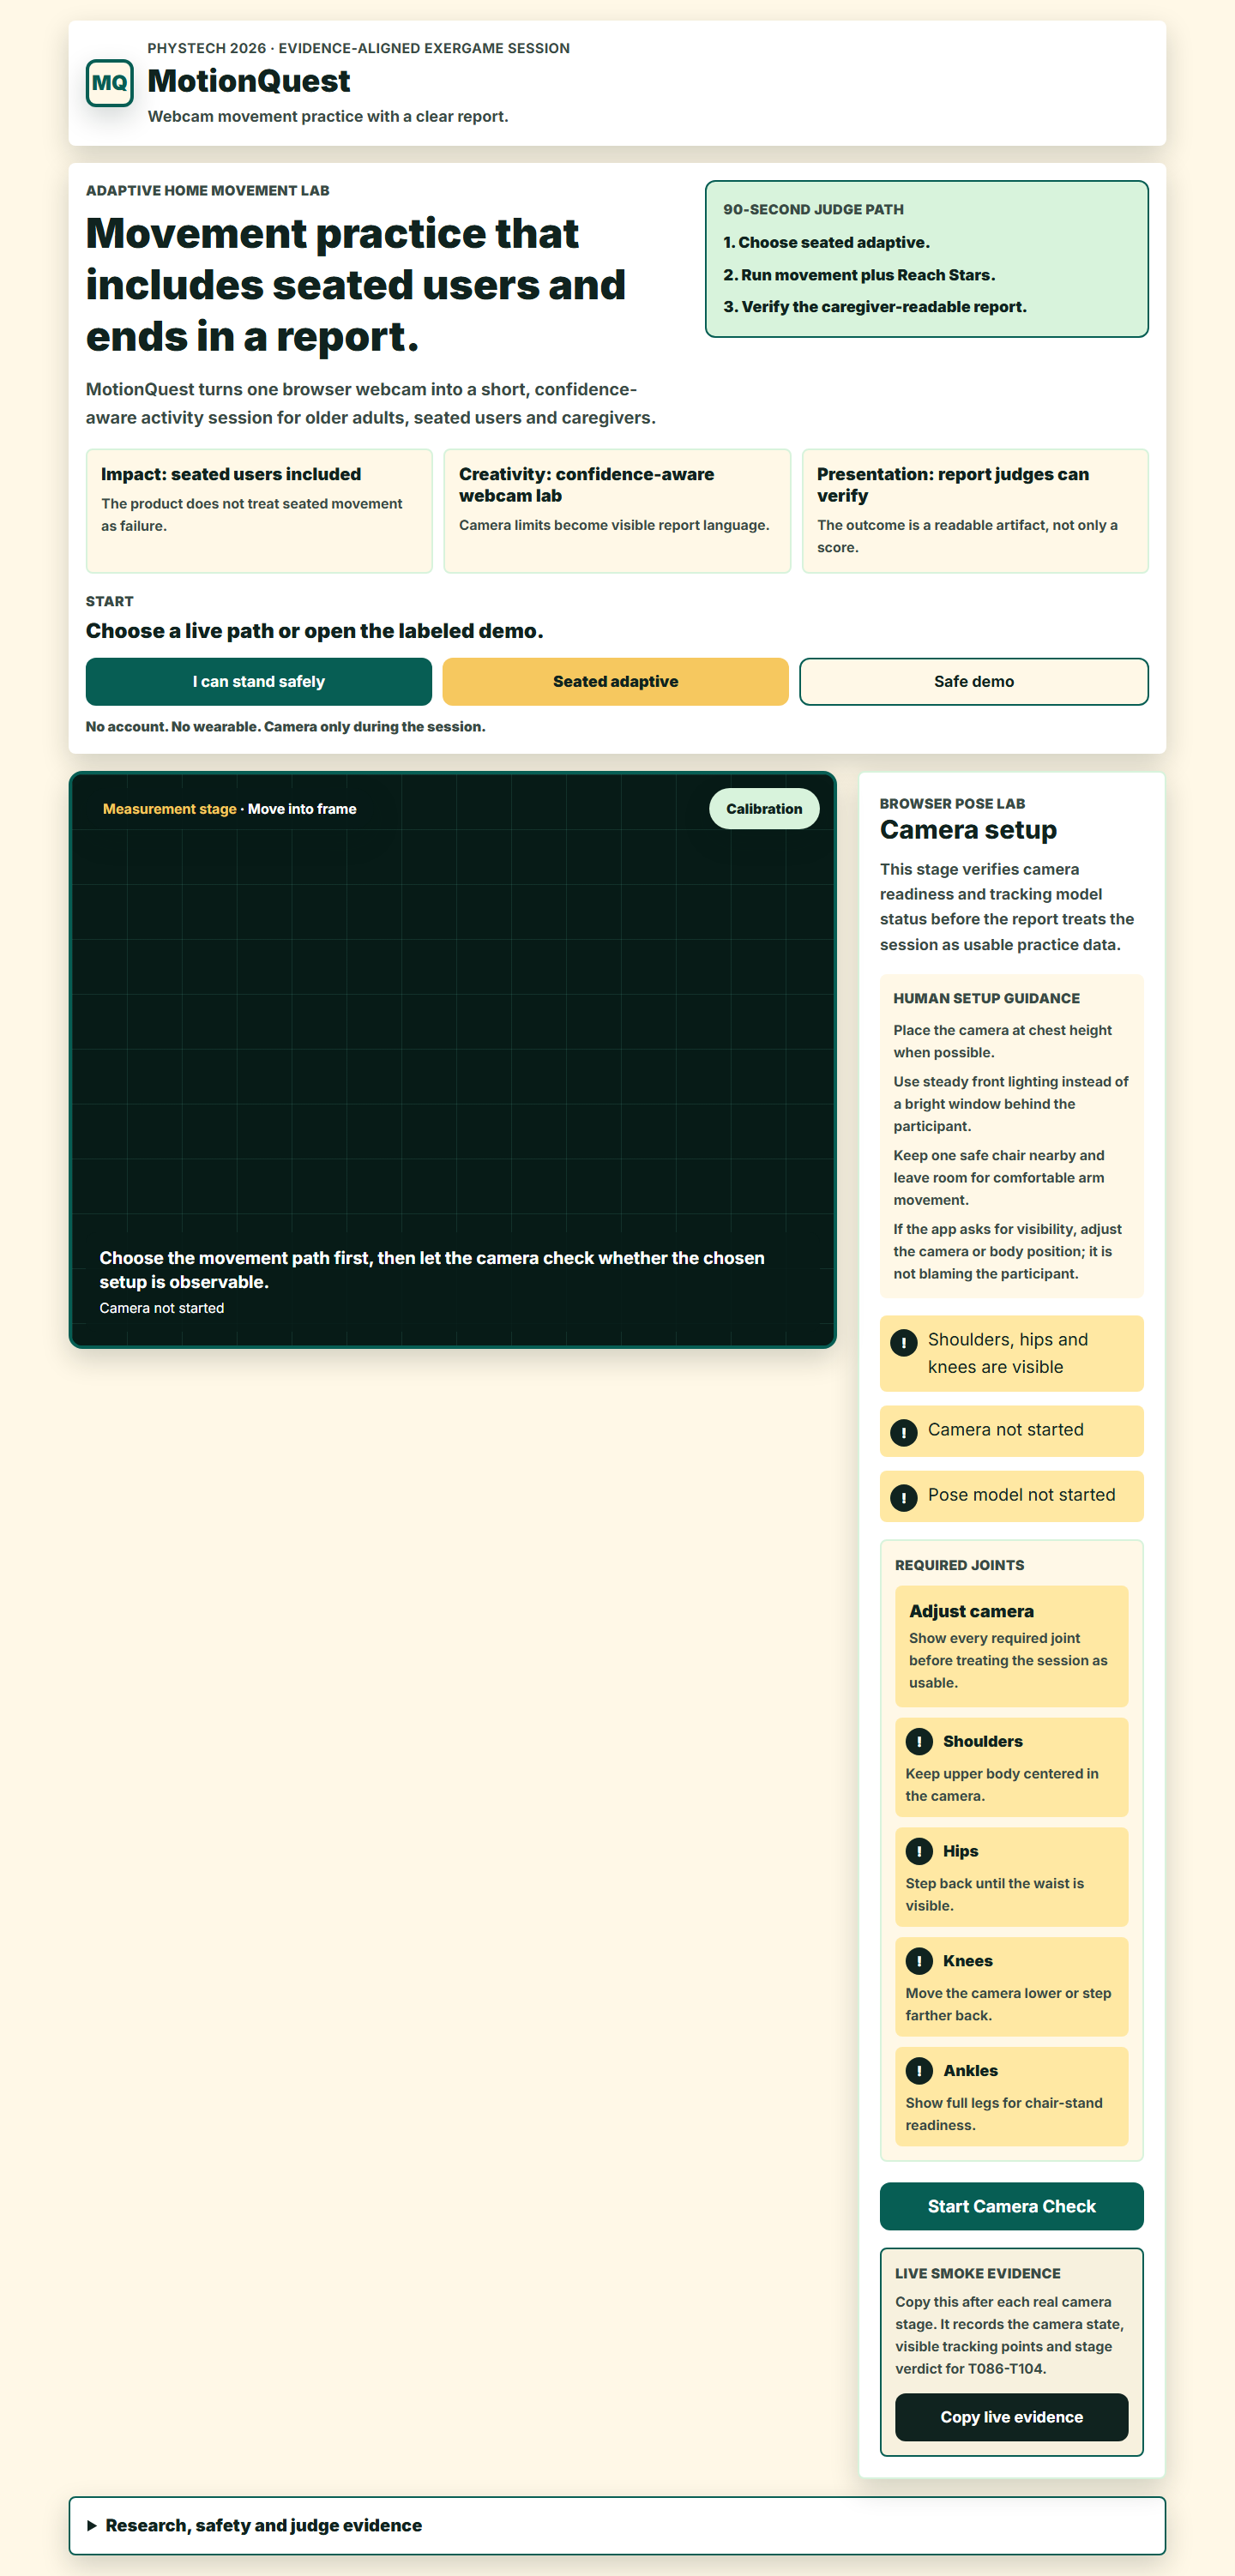
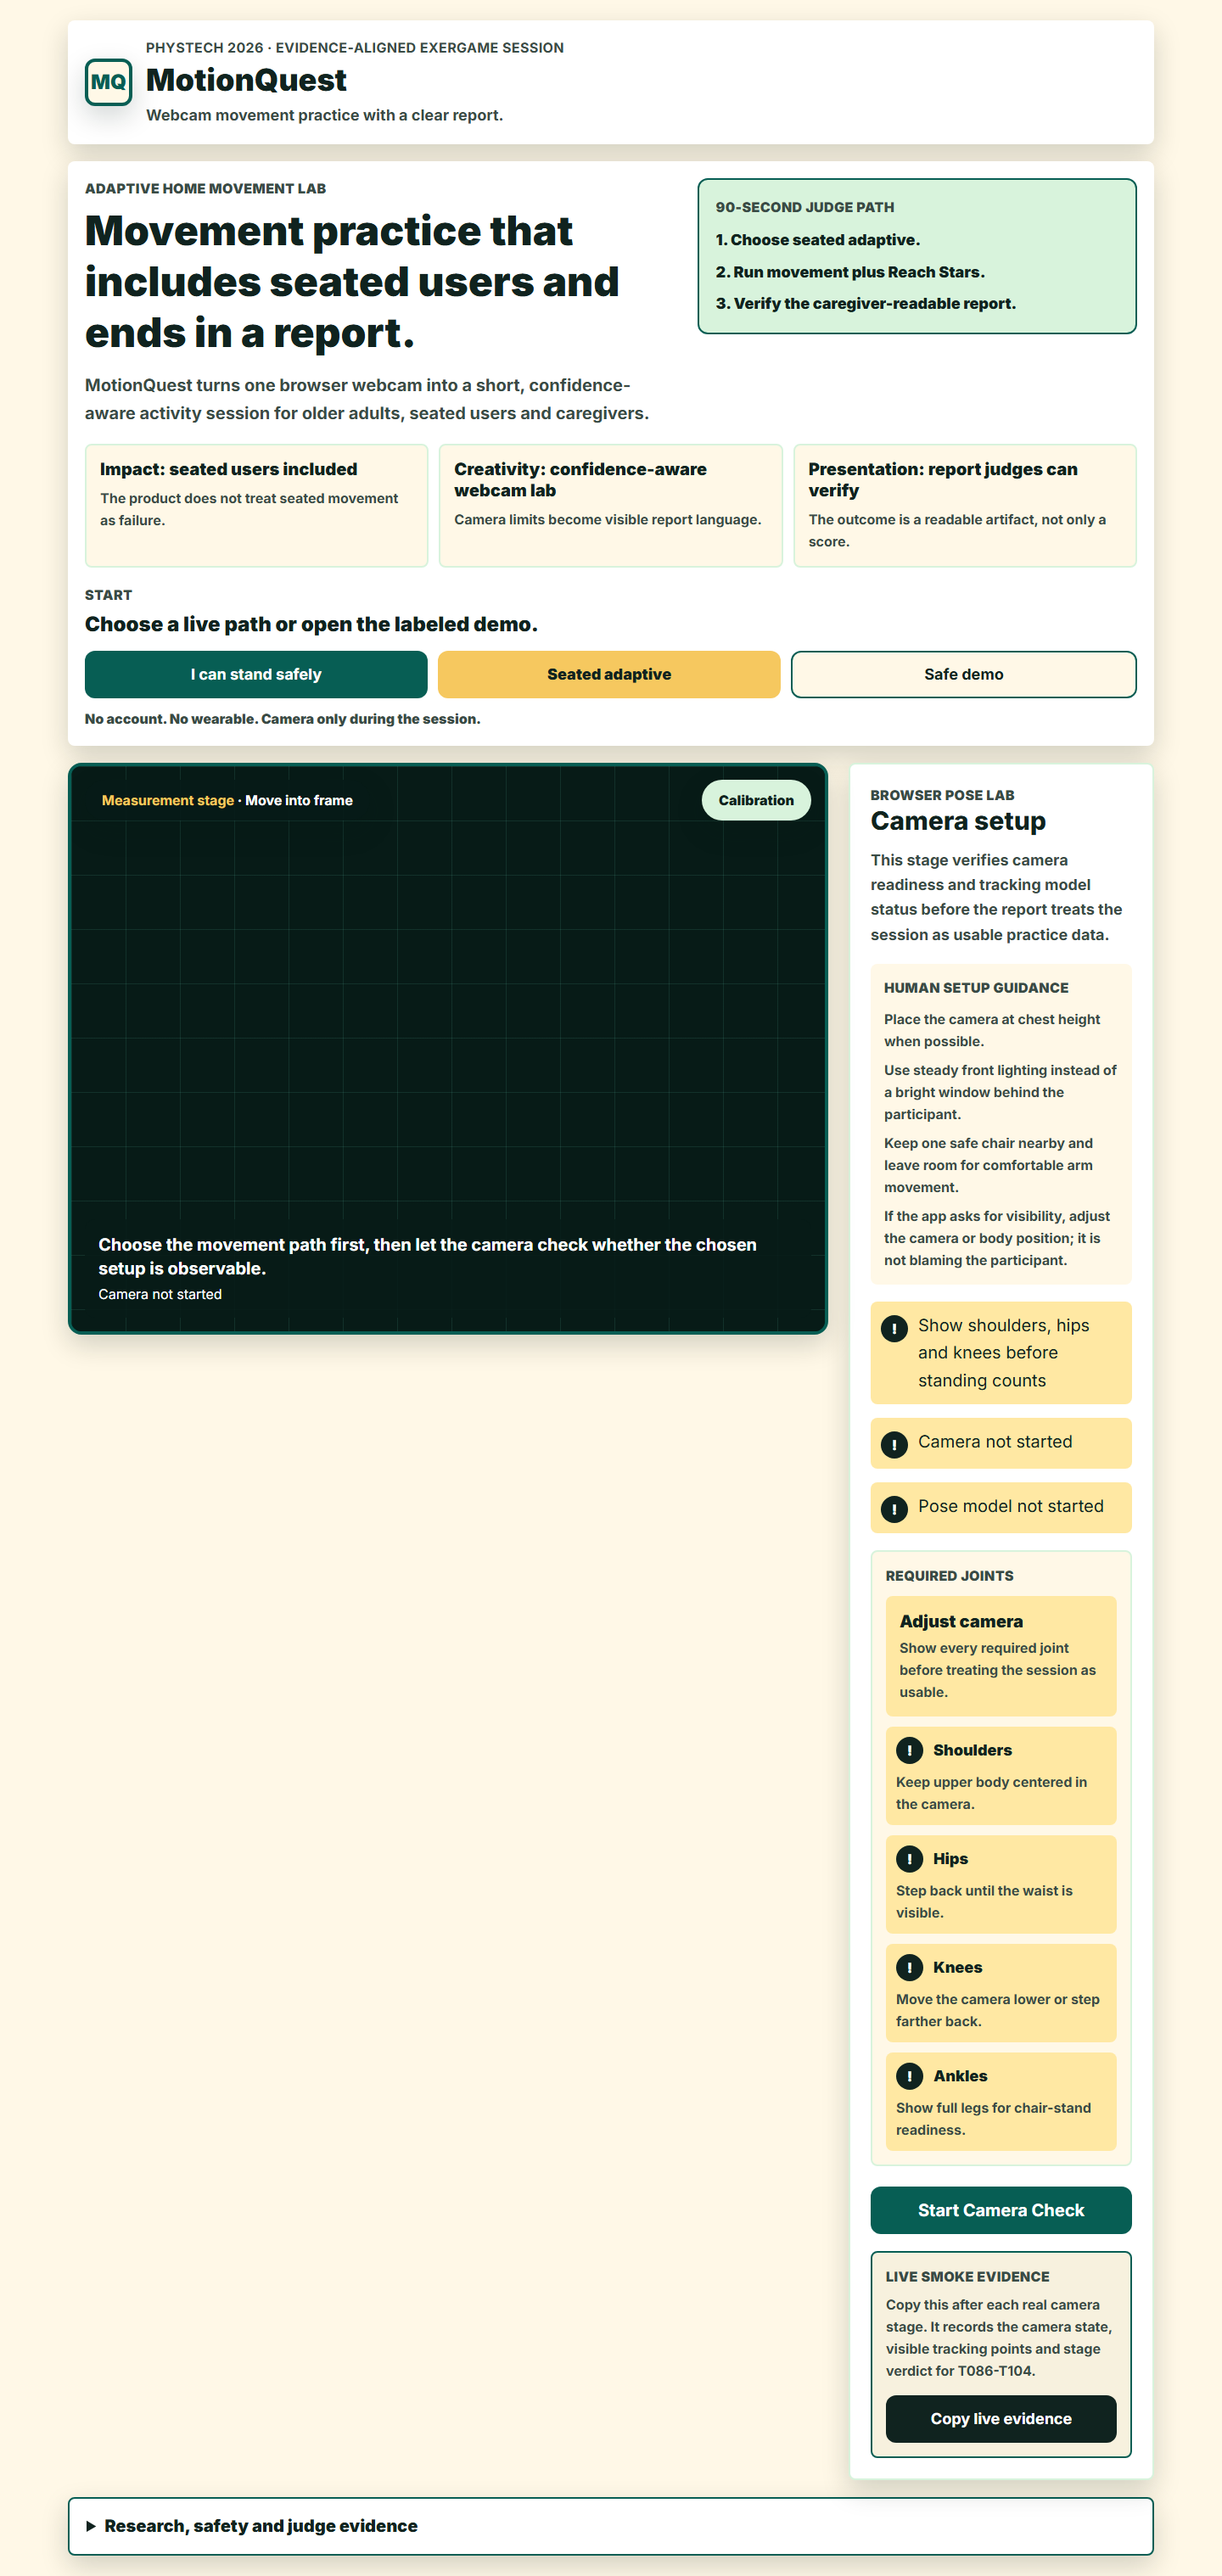
record standing recovery proof

diff --git a/docs/STATE.md b/docs/STATE.md
@@ -8,12 +8,12 @@ status: Phase 7 T122-T141 is complete. Phase 8 T142-T145, T148-T157 and T159 are
 status_update_2026_06_18: Public package has been pushed to `origin/master` at `98c1c173d7bca3cd361d1833c9dba52bb51b732e`, production redeployed as `dpl_DdZAszhYf1u3nptc8FdHyejMqhQ1` and aliased to `https://motionquest-app.vercel.app`, final clean-browser proof exists at `evidence/submission-proof/public-link-clean-browser.png` plus `.json`, and `npm run project:final-audit -- --public-smoke` verifies remote branch freshness plus current public app/source/README/Devpost/Binnovative content. Public publication proof is now real; external submission, presentation registration and real-camera evidence remain `NO-GO`.
 status_update_2026_06_18_camera_fix: Reach Stars tracking was tightened after real-user screenshot feedback. The app no longer treats pose-wrist fallback or wrist-only hand results as a usable Reach Stars hand, hand-mode stale landmarks are cleared immediately when the signal drops, and the camera video uses the same 4:3 coordinate plane as the canvas/target overlay. Commit `8affcedcc3983f5d4d5c15be737ba8addd20d7eb` was pushed to `origin/master`, production was redeployed as `dpl_DxyKRoxaXdvaxZ9hxSJTf9B9FdCV`, and Vercel aliased it to `https://motionquest-app.vercel.app`. Fresh verification for this change passed: `npm test -- src/hooks/usePoseTracking.test.ts`, `npm test`, `npm run lint`, `npm run build`, `npm run project:readiness`, `npm audit --audit-level=moderate`, `npm run project:final-audit`, `E2E_APP_URL=http://localhost:3014 npm run test:e2e` 11/11, `E2E_APP_URL=https://motionquest-app.vercel.app npm run test:e2e` 11/11, and `npm run project:capture-public-proof`.
 status_update_2026_06_18_camera_stability_fix: Follow-up live-camera hardening was completed after user feedback that tracking still did not behave correctly. The app now requests a stable 4:3 presenter camera before browser defaults, requires consecutive visible hand frames before seated/reach stages become usable, resets hand lock after implausible jumps, hides hand landmarks until lock is stable, and tells the user to hold one open hand steady while locking. Commit `81e1ffa79c0a8016dd9155224f56cc1c4ad19e45` was pushed to `origin/master`, production was redeployed as `dpl_FaN79F65Us84HuJRR9ynmqCsBG5X`, and Vercel aliased it to `https://motionquest-app.vercel.app`. Fresh verification passed: `npm test` 43/43, `npm run lint`, `npm run build`, `npm run project:readiness`, `npm audit --audit-level=moderate`, `git diff --check` with CRLF warnings only, `E2E_APP_URL=http://localhost:3014 npm run test:e2e` 11/11, `E2E_APP_URL=https://motionquest-app.vercel.app npm run test:e2e` 11/11, and `npm run project:capture-public-proof`.
-status_update_2026_06_18_standing_close_camera_fix: Standing branch UX was corrected after user-side screenshot proof showed a close camera view with head/shoulders but no hips/knees. The stage no longer says shoulders/hips/knees are visible when `hasUsablePose(..., "chair")` is false, and the paused standing overlay now says to step back, lower the camera, or switch to seated adaptive. A new `Switch to seated adaptive` button lets the presenter recover without returning to the home screen. Fresh local verification passed: `npm test` 43/43, `npm run lint`, `npm run build`, and `E2E_APP_URL=http://localhost:3014 npm run test:e2e` 11/11.
+status_update_2026_06_18_standing_close_camera_fix: Standing branch UX was corrected after user-side screenshot proof showed a close camera view with head/shoulders but no hips/knees. The stage no longer says shoulders/hips/knees are visible when `hasUsablePose(..., "chair")` is false, and the paused standing overlay now says to step back, lower the camera, or switch to seated adaptive. A new `Switch to seated adaptive` button lets the presenter recover without returning to the home screen. Commit `e2e3f45a1d145406de92bd92ae402b3560cae64e` was pushed to `origin/master`, production was redeployed as `dpl_eJEG9Aiq37oo2aBs7QFAkr9K4nzm`, and Vercel aliased it to `https://motionquest-app.vercel.app`. Fresh verification passed: `npm test` 43/43, `npm run lint`, `npm run build`, `npm run project:readiness`, `npm audit --audit-level=moderate`, `E2E_APP_URL=http://localhost:3014 npm run test:e2e` 11/11, `E2E_APP_URL=https://motionquest-app.vercel.app npm run test:e2e` 11/11, and `npm run project:capture-public-proof`.
 active_step: Phase 9 release readiness, public verification blockers and camera evidence.
 next_step: Continue T146 official registration-link process, T160-T161 Phase 8 acceptance only after registration/link timing is settled, T163/T171-T173 evidence work when physical camera conditions are available, T180-T181 after release blockers resolve, and T182-T186/T188-T190/T199-T201/T210-T211 only when actual launch/event/post-contest evidence exists.
 blockers: Physical webcam evidence is still separate from automated tests; automated screenshots/video used fake-device or safe-demo paths and are not real presenter-side camera proof. T146 still needs the official registration-link process. T163/T171-T173 need safe physical camera setups. T182-T186 require actual Devpost submission, presentation registration, official verification/rehearsal actions and saved proof; T188-T190 require real post-presentation feedback. Devpost submission, Discord/Google Forms presentation registration, live rehearsals and post-contest updates require human-time or explicit public-action approval. The final audit must remain `NO-GO` for external submission, real-camera evidence and final submission until the corresponding real proof files pass validation.
 artifacts: DESIGN.md, docs/PHASE1_T001_T010_FULL_RELEASE_RESULTS_2026_05_06.md, docs/PHASE1_T011_T020_FULL_RELEASE_RESULTS_2026_05_06.md, docs/PHASE1_T021_PHASE2_T022_T030_FULL_RELEASE_RESULTS_2026_05_06.md, docs/PHASE2_T031_T040_FULL_RELEASE_RESULTS_2026_05_06.md, docs/PHASE2_T041_PHASE3_T042_T050_FULL_RELEASE_RESULTS_2026_05_06.md, docs/PHASE3_T051_T060_FULL_RELEASE_RESULTS_2026_05_06.md, docs/PHASE3_T061_PHASE4_T062_T070_FULL_RELEASE_RESULTS_2026_05_06.md, docs/VISUAL_DNA_T062_T070_2026_05_06.md, docs/EVIDENCE_SURFACE_T022_T030_2026_05_06.md, docs/EVIDENCE_APPENDIX_T031_T040_2026_05_06.md, docs/USER_MODEL_MOVEMENT_SEMANTICS_T042_T050_2026_05_06.md, docs/REPORT_OUTCOME_COPY_T051_T060_2026_05_06.md, docs/MOTIONQUEST_FULL_RELEASE_MASTER_TODO_2026_05_06.md, docs/MOTIONQUEST_WORLD_CLASS_MASTER_BRIEF.md, docs/mvp-plan.md, docs/visual-spec.md, docs/CONDITIONS_GAP_AUDIT.md, docs/CONDITIONS_GAP_ACTION_CHECKLIST.md, docs/JUDGING_CLAIMS_AND_LIMITS.md, docs/SUBMISSION_PACKAGE_PLAN.md, docs/MASTER_TODO_WINNING_PROJECT.md, docs/DEVPOST_SUBMISSION_COPY.md, docs/PRESENTATION_SCRIPT.md, docs/JUDGE_QA_ANSWER_BANK.md, docs/FINAL_SUBMISSION_CHECKLIST.md, docs/FINAL_REHEARSAL_PLAN.md, docs/RELEASE_RISK_REGISTER.md, docs/RELEASE_EVIDENCE_2026_05_05.md, docs/PHASE5_T086_T105_REAL_CAMERA_CLOSEOUT.md, docs/POST_CONTEST_CONTINUITY.md, docs/ADAPTIVE_SEATED_METRICS_RESEARCH_2026_05_05.md, docs/ADAPTIVE_SEATED_IMPLEMENTATION_2026_05_05.md, output/README.md, output/devpost-screenshots/README.md, output/demo-video/README.md, output/playwright/README.md, output/playwright/motionquest-home-desktop-t062-t070.png, output/playwright/motionquest-camera-stage-t062-t070.png, output/playwright/motionquest-report-t062-t070.png, output/playwright/motionquest-home-mobile-t062-t070.png, output/playwright/motionquest-phase4-visual-trust-home.png, output/playwright/motionquest-phase4-caregiver-artifact-report.png, output/playwright/motionquest-phase4-t081-t090-home.png, output/playwright/motionquest-phase4-t081-t090-report.png, output/playwright/public-link-clean-browser-current-home-2026-06-04.png, output/playwright/public-link-clean-browser-current-report-2026-06-04.png, output/playwright/public-link-clean-browser-current-github-2026-06-04.png, output/devpost-screenshots/01-home-desktop.png, output/devpost-screenshots/02-seated-adaptive-stage.png, output/devpost-screenshots/03-reach-stars-stage.png, output/devpost-screenshots/04-caregiver-report.png, output/devpost-screenshots/05-home-mobile.png, output/devpost-screenshots/06-evidence-surface-before-after.png, output/devpost-screenshots/07-safe-demo-fallback-banner.png, output/demo-video/motionquest-adaptive-demo.webm, output/playwright/motionquest-demo-video-contact-2026-06-04.jpg, output/playwright/reach-stars-layout-after-tracking-gate-fix.png, output/playwright/seated-hand-only-local.png, output/playwright/seated-hand-only-production.png, evidence/camera-smoke/README.md, evidence/submission-proof/README.md, research-synthesis-MotionQuest.md, motionquest-app/, https://github.com/AI-Nikitka93/motionquest-phystech-2026
-updated_at: 2026-06-18 19:20 Europe/Minsk
+updated_at: 2026-06-18 22:35 Europe/Minsk
 
 ## Notes
 